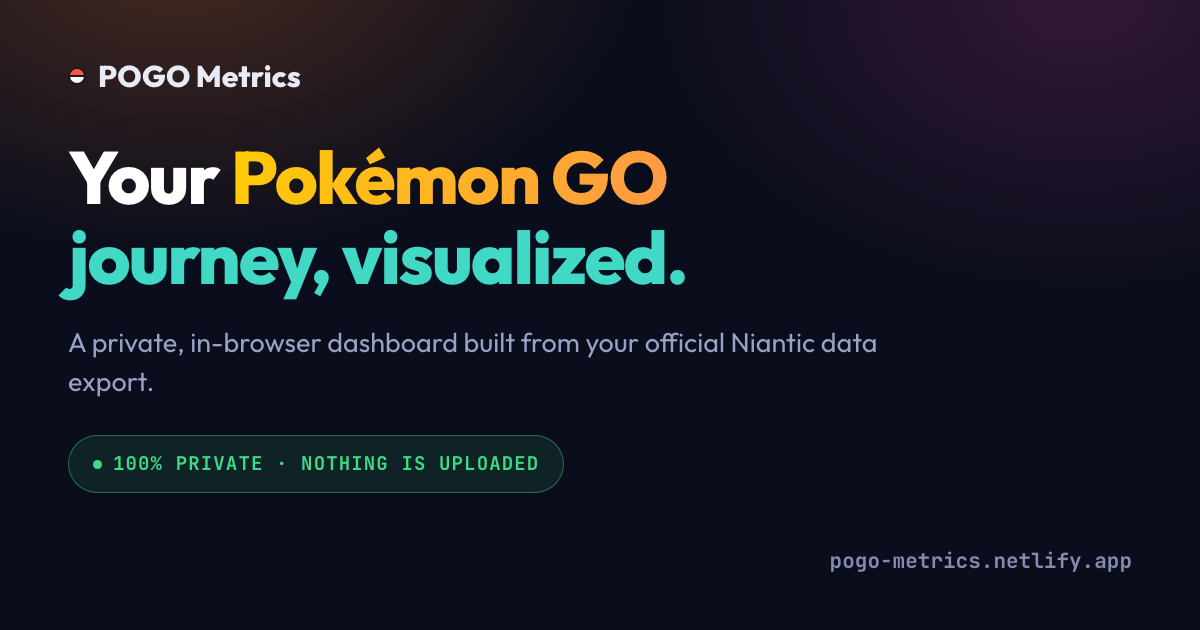
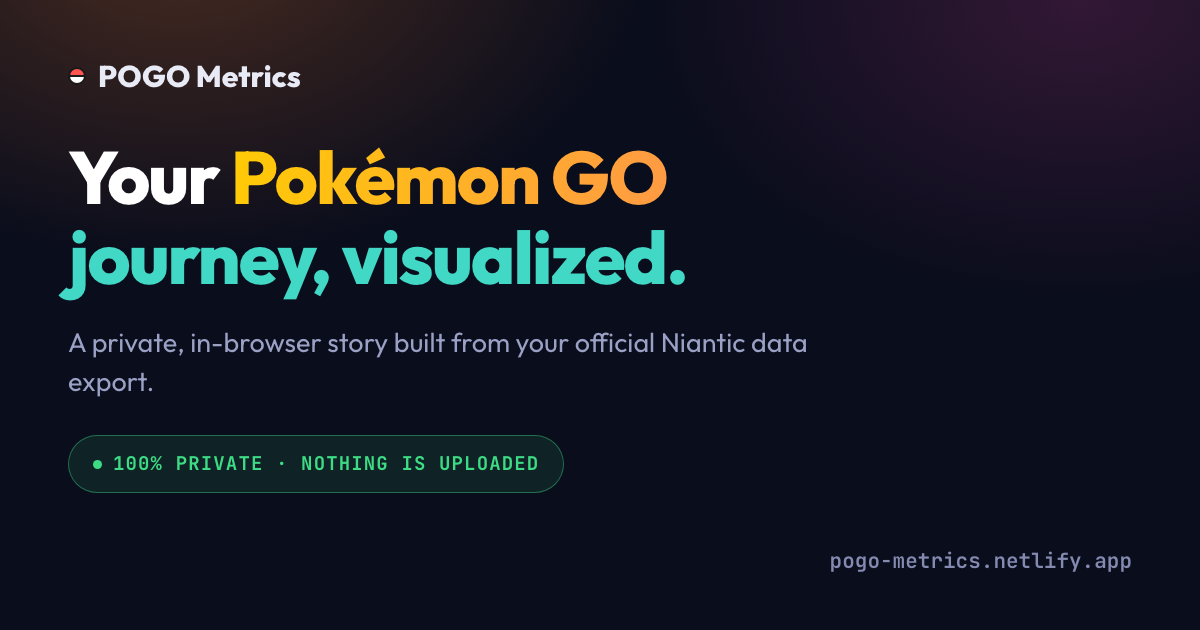
Globe replay, friend rival in the demo, wrapped season, fresh OG cards
- The globe gains "Replay my journey": spots, remote-raid arcs and the
  GPS trail accumulate month by month under a date ticker (first-seen
  months recorded at parse; skipped under reduced motion)
- The live example now ships a fictional rival (GaryDemo) as a
  pogo-metrics-stats JSON, so the You-vs-friend chapter shows on the
  demo — 16 chapters
- Milestone rows offer a one-tap .ics reminder for their projected date;
  every December the report hero nudges "play this year's story"
- OG images re-rendered from the current cards (headless Chrome), and
  the last two "dashboard" copy holdouts renamed
- READMEs document the new features

Changed region(s): [[0.2775, 0.5127, 0.74, 0.573]]

diff --git a/pogo-metrics/js/app.js b/pogo-metrics/js/app.js
@@ -278,6 +278,7 @@ function freshState() {
       stamps: [], forts: new Map(), gyms: new Map(),
       raidTotal: 0, raidRemote: 0, raidMaxKm: 0, raidKmSum: 0, raidWithDist: 0,
       raidArcs: new Map(), raidGymBins: new Map(), remoteRaidsByYear: {},
+      geoFirst: new Map(), arcFirst: new Map(),   // first-seen month per spot/arc — feeds the globe replay
     },
     trail: [], trailCount: 0, trailStride: 1,
     bag: null,
@@ -810,6 +811,7 @@ async function parsePlayerJourney(label, text) {
       hasLoc = true;
       const key = lat.toFixed(3) + "," + lon.toFixed(3);
       e.geo.set(key, (e.geo.get(key) || 0) + 1);
+      if (!e.geoFirst.has(key)) e.geoFirst.set(key, mk);
       let kc = e.geoKind.get(key);
       if (!kc) { kc = {}; e.geoKind.set(key, kc); }
       kc[label] = (kc[label] || 0) + 1;
@@ -842,6 +844,7 @@ async function parsePlayerJourney(label, text) {
           e.remoteRaidsByYear[ts.getUTCFullYear()] = (e.remoteRaidsByYear[ts.getUTCFullYear()] || 0) + 1;
           const ak = `${lat.toFixed(1)},${lon.toFixed(1)},${glat.toFixed(1)},${glon.toFixed(1)}`;
           e.raidArcs.set(ak, (e.raidArcs.get(ak) || 0) + 1);
+          if (!e.arcFirst.has(ak)) e.arcFirst.set(ak, mk);
           const gk = `${glat.toFixed(1)},${glon.toFixed(1)}`;
           e.raidGymBins.set(gk, (e.raidGymBins.get(gk) || 0) + 1);
         }
@@ -1547,6 +1550,21 @@ async function build() {
     wireCountUps(res);
     // The demo page's hero CTA can only work once STATE is populated — enabling
     // it here avoids opening a one-slide story over an empty build.
+    /* December is Wrapped season — surface the year story while it's the moment */
+    const seasonNow = new Date();
+    if (seasonNow.getMonth() === 11) {
+      const y = String(seasonNow.getFullYear());
+      if (Object.keys(STATE.ev.byMonth).some((m) => m.startsWith(y))) {
+        const heroEl = res.querySelector(".res-hero");
+        if (heroEl) {
+          heroEl.insertAdjacentHTML("beforeend",
+            `<div class="season-banner"><span aria-hidden="true">🎁</span> Your ${y}, wrapped —
+             <button class="linkish" id="season-play" type="button">play ${y}'s story</button></div>`);
+          const sp = $("season-play");
+          if (sp) sp.onclick = () => storyMode(y);
+        }
+      }
+    }
     fetchCohortRank();
     const demoCta = $("demo-story-cta");
     if (demoCta) {
@@ -2059,6 +2077,26 @@ function storyMode(year) {
   render(0);
   // pull focus into the dialog so keyboard users are inside the story, not behind it
   try { ov.querySelector(".story-x").focus(); } catch (e) {}
+}
+
+/* A tiny on-device .ics download — no calendar service, no request. Same
+ * pattern as the landing page's export reminder. */
+function downloadICS(summary, date, filename) {
+  const ymd = date.toISOString().slice(0, 10).replace(/-/g, "");
+  const stamp = new Date().toISOString().replace(/[-:]/g, "").slice(0, 15) + "Z";
+  const ics = [
+    "BEGIN:VCALENDAR", "VERSION:2.0", "PRODID:-//POGO Metrics//EN",
+    "BEGIN:VEVENT", "UID:" + stamp + "@pogo-metrics",
+    "DTSTAMP:" + stamp, "DTSTART;VALUE=DATE:" + ymd,
+    "SUMMARY:" + summary,
+    "DESCRIPTION:Projected from your recent pace by POGO Metrics. Re-export from Niantic and rebuild to see how close you are: https://pogo-metrics.netlify.app/",
+    "URL:https://pogo-metrics.netlify.app/", "END:VEVENT", "END:VCALENDAR",
+  ].join("\r\n");
+  const url = URL.createObjectURL(new Blob([ics], { type: "text/calendar" }));
+  const a = document.createElement("a");
+  a.href = url; a.download = filename;
+  document.body.appendChild(a); a.click(); a.remove();
+  setTimeout(() => URL.revokeObjectURL(url), 4000);
 }
 
 /* ── shared canvas delivery: native share sheet on phones, download anchor
@@ -2754,10 +2792,18 @@ function renderRecords() {
           <div class="gname">${esc(m.label)}</div>
           <div class="gen-bar-track"><div class="gen-bar-fill" style="width:${Math.min(100, m.current / m.target * 100).toFixed(1)}%"></div></div>
           <div class="gval">${fmt(m.toGo)} to ${fmt(m.target)}${m.eta
-            ? ` · ~${m.eta.toLocaleDateString(undefined, { month: "short", year: "numeric" })}`
+            ? ` · ~${m.eta.toLocaleDateString(undefined, { month: "short", year: "numeric" })}
+               <button class="linkish ms-ics" type="button" data-label="${esc(m.label)}" data-target="${m.target}" data-eta="${m.eta.toISOString()}"
+                 aria-label="Calendar reminder for ${esc(m.label)} reaching ${fmt(m.target)}"><span aria-hidden="true">📅</span></button>`
             : " · on pause"}</div>
         </div>`).join("")}</div>`;
   }
+
+  later(() => {
+    document.querySelectorAll(".ms-ics").forEach((b) => b.addEventListener("click", () =>
+      downloadICS(`Pokémon GO: ~${b.dataset.label} hits ${fmt(+b.dataset.target)}`, new Date(b.dataset.eta),
+        "pogo-metrics-milestone.ics")));
+  });
 
   /* first reveal of the personal-best grid earns the celebration beat */
   later(() => {
@@ -3927,7 +3973,7 @@ function renderGlobe() {
     const [lat, lng] = key.split(",").map(Number);
     const kc = e.geoKind.get(key) || {};
     const kind = (Object.entries(kc).sort((a, b) => b[1] - a[1])[0] || ["Encounters"])[0];
-    return { lat, lng, count, kind };
+    return { lat, lng, count, kind, m: e.geoFirst.get(key) };
   });
   if (!points.length && !STATE.trail.length) return renderFlatMap();
   const maxCount = Math.max(1, ...points.map((p) => p.count));
@@ -3938,7 +3984,7 @@ function renderGlobe() {
     // PAST the real farthest raid — which the same panel prints a few hundred
     // pixels away, from the unrounded figure. One distance, one number.
     const km = haversine(slat, slng, elat, elng);
-    return { slat, slng, elat, elng, count, km: e.raidMaxKm ? Math.min(km, e.raidMaxKm) : km };
+    return { slat, slng, elat, elng, count, km: e.raidMaxKm ? Math.min(km, e.raidMaxKm) : km, m: e.arcFirst.get(key) };
   });
   let home = null, hc = -1;
   for (const [key, c] of e.geo) { if (c > hc) { hc = c; const [la, lo] = key.split(",").map(Number); home = { lat: la, lng: lo }; } }
@@ -3971,7 +4017,8 @@ function renderGlobe() {
         ${gToggle(P + "ly-borders", "#5a6db8", "Country lines", true)}
         ${gToggle(P + "ly-labels", "#dfe6ff", "Country names", true)}
         ${gToggle(P + "ly-rotate", C.blue, "Auto-rotate", !REDUCED_MOTION)}
-        <button id="${P}shot" class="gh-btn" type="button">📷 Save image</button>
+        <button id="${P}shot" class="gh-btn" type="button"><span aria-hidden="true">📷</span> Save image</button>
+        ${REDUCED_MOTION ? "" : `<button id="${P}replay" class="gh-btn" type="button"><span aria-hidden="true">▶</span> Replay my journey</button>`}
       </details>
       <div id="${P}legend" class="globe-hud globe-legend"></div>
       <div id="${P}country" class="globe-hud globe-country" hidden></div>
@@ -4257,6 +4304,47 @@ function initGlobe({ P, points, maxCount, arcs, home, paths }) {
     $$("arc-lbl").textContent = +arcDist.value >= 100 ? "all distances" : "≤ " + fmt(Math.round(arcMax)) + " km";
     updateArcs();
   };
+
+  /* ── chronological replay: months accumulate onto the globe under a date
+     ticker — the "six years in thirty seconds" moment. Data was tagged with
+     first-seen months at parse; the trail is already day-keyed. Restores the
+     layer toggles' truth when done. Not offered under reduced motion. ── */
+  const rp = $$("replay");
+  if (rp) {
+    const months = [...new Set([
+      ...points.map((pt) => pt.m), ...arcs.map((a) => a.m),
+      ...paths.map((pa) => pa.date.slice(0, 7)),
+    ].filter(Boolean))].sort();
+    if (months.length < 2) rp.style.display = "none";
+    else rp.onclick = () => {
+      if (rp.disabled) return;
+      rp.disabled = true;
+      const stage = el.closest(".globe-stage");
+      const tick = document.createElement("div");
+      tick.className = "globe-ticker";
+      stage.appendChild(tick);
+      const dwell = Math.max(220, Math.min(650, 26000 / months.length));
+      let i = 0;
+      const step = () => {
+        if (GLOBE !== world || !el.isConnected) { tick.remove(); return; }   // torn down mid-replay
+        const cur = months[i];
+        tick.textContent = fmtMonth(cur);
+        world.pointsData($$("ly-points").checked ? points.filter((pt) => !pt.m || pt.m <= cur) : []);
+        world.arcsData($$("ly-arcs").checked ? arcs.filter((a) => (!a.m || a.m <= cur) && a.km <= arcMax + 0.5) : []);
+        world.pathsData($$("ly-trail").checked ? paths.filter((pa) => pa.date.slice(0, 7) <= cur) : []);
+        i++;
+        if (i < months.length) setTimeout(step, dwell);
+        else setTimeout(() => {
+          tick.remove();
+          world.pointsData($$("ly-points").checked ? points : []);
+          updateArcs();
+          world.pathsData($$("ly-trail").checked ? paths : []);
+          rp.disabled = false;
+        }, 1100);
+      };
+      step();
+    };
+  }
 
   const onResize = () => { if (GLOBE === world && el.isConnected) world.width(el.clientWidth).height(el.clientHeight || 560); };
   window.addEventListener("resize", onResize);

diff --git a/pogo-metrics/css/style.css b/pogo-metrics/css/style.css
@@ -568,6 +568,12 @@ h2:hover > .permalink, h3:hover > .permalink,
 }
 #results .res-hero p { color: var(--ink-dim); }
 .res-toolbar { display: flex; justify-content: center; gap: 12px; flex-wrap: wrap; margin: 18px 0 6px; }
+/* December-only: the wrapped-season nudge under the report hero */
+.season-banner {
+  display: inline-flex; align-items: center; gap: 8px; margin-top: 14px;
+  background: rgba(255, 203, 5, .10); border: 1px solid rgba(255, 203, 5, .35);
+  color: var(--ink); padding: 8px 16px; border-radius: 999px; font-size: .90625rem; font-weight: 600;
+}
 
 /* callout pills */
 .callout-row { display: flex; flex-wrap: wrap; gap: 10px; margin-top: 14px; }
@@ -677,6 +683,14 @@ footer .deck-line .sep { margin: 0 9px; opacity: .55; }
   font-family: var(--sans); cursor: pointer; transition: background .12s; }
 .gh-btn:hover { background: rgba(65,216,198,.26); }
 .gh-btn:disabled { opacity: .6; cursor: default; }
+/* the replay's month ticker, centered clear of both top HUDs */
+.globe-ticker {
+  position: absolute; left: 50%; top: 14px; transform: translateX(-50%);
+  z-index: 7; pointer-events: none;
+  font-family: var(--mono); font-weight: 700; font-size: 1.375rem; color: #fff;
+  background: rgba(10, 13, 28, .78); border: 1px solid var(--line);
+  border-radius: 999px; padding: 6px 18px; backdrop-filter: blur(6px);
+}
 .globe-legend { bottom: 12px; left: 12px; max-width: 280px; }
 .globe-legend .gh-li { display: inline-flex; align-items: center; gap: 0.3125rem; margin: 0.125rem 0.5625rem 0.125rem 0; font-size: 0.71875rem; color: var(--ink-dim); }
 .globe-legend .gh-d { width: 8px; height: 8px; border-radius: 2px; flex: none; }

diff --git a/pogo-metrics/og-card-demo.html b/pogo-metrics/og-card-demo.html
@@ -47,7 +47,7 @@
   <div class="wordmark"><span class="pokeball-dot"></span> POGO Metrics</div>
   <div class="eyebrow">Live example</div>
   <h1><span class="t">See a real trainer's journey.</span></h1>
-  <p>A full dashboard built from an anonymized sample export — charts, a 3D globe, and a tappable Wrapped-style story.</p>
+  <p>A full report built from an anonymized sample export — charts, a 3D globe, and a tappable Wrapped-style story.</p>
   <div class="tiles">
     <div class="tile"><div class="v">13,905</div><div class="l">logged actions</div></div>
     <div class="tile"><div class="v">831</div><div class="l">days played</div></div>

diff --git a/pogo-metrics/og-card.html b/pogo-metrics/og-card.html
@@ -38,7 +38,7 @@
 <body>
   <div class="wordmark"><span class="pokeball-dot"></span> POGO Metrics</div>
   <h1><span class="w">Your</span> <span class="y">Pokémon&nbsp;GO</span><br><span class="t">journey, visualized.</span></h1>
-  <p>A private, in-browser dashboard built from your official Niantic data export.</p>
+  <p>A private, in-browser story built from your official Niantic data export.</p>
   <div class="chip"><span class="dot"></span>100% PRIVATE · NOTHING IS UPLOADED</div>
   <div class="url">pogo-metrics.netlify.app</div>
 </body>

diff --git a/README.md b/README.md
@@ -50,28 +50,40 @@ Each file you drop in lights up its own chapter. Upload one file or the whole ex
 | **Spending** — coin flow, top items, which storefront, free boxes and support gifts | `InAppPurchases.tsv` |
 | **Fitness** — Adventure Sync steps and real-world equivalents | `FitnessData.tsv` |
 | **Photo album** — every GO Snapshot you've taken, by month | `ImageData.txt` |
-| **Record book** — your personal bests: biggest day, best month, longest streak, farthest raid | `Player_Journey/*.csv` |
+| **Record book** — your personal bests, plus **next-milestone countdowns** projected from your recent pace (with one-tap calendar reminders) | `Player_Journey/*.csv` |
+| **You vs. a friend** — swap "My numbers" JSON files with a friend over chat and each of you gets a side-by-side chapter: action by action, and who peaked when | a `pogo-metrics-stats*.json` exported by this site |
 | **Behind the screen** — sessions, devices, cities, countries, support tickets | app sessions, installs, support |
 | **Live events and Wayfarer contributions** | tickets, `wayfarer_player_data.json` |
 
 Nothing is required. Upload only `FriendList.tsv` and you'll get exactly the social chapter and
 nothing else.
 
-### Four things to do with the result
+### Five things to do with the result
 
-Once a dashboard is built, the toolbar above it offers:
+Once your story is built (it builds itself moments after a drop), the toolbar above it offers:
 
-- **▶ Play my story** — a full-screen, tappable recap of your whole journey, one number at a
-  time. Tap right for next, left to go back, Esc to close. It's also the demo page's main CTA.
+- **▶ Play my story** — a full-screen recap in the Wrapped grammar: slides auto-advance with a
+  filling progress bar, hold to pause, swipe (or tap the edges, or use arrow keys) to move, Esc
+  or the Android Back button to close. It ends on your computed **trainer type** ("The Raid
+  Boss", "The Night Owl"…) and — if `Gameplay.txt` was included — where your level lands among
+  the Trainer Model's real cohort. Every stat slide has a **Share this** button that renders
+  that one number as a phone-story-sized (1080×1920) image straight into the share sheet, and
+  each card in the Year-over-year chapter has a **▶ Play <year>'s story** of its own.
 - **⬇ Journey card** — your entire journey as one shareable PNG: headline totals, a month-by-month
-  chart with a legend, and auto-awarded badges. The Year-over-year chapter offers the same thing
-  per year.
+  chart with a legend, and auto-awarded badges (your trainer type leads them). The Year-over-year
+  chapter offers the same thing per year.
+- **🖼 Poster** — a print-ready 2480×3508 PNG for the wall: your name, lifetime numbers, and one
+  calendar heat-strip for every year of the journey. (The report also carries print styles now,
+  so plain Cmd+P works too.)
 - **🧾 My numbers** — a JSON dump of every figure the app computed, for anyone who'd rather have
   the data than the pictures. **Location data is deliberately excluded** — no GPS trail, no stop or
   activity coordinates, no cities, no countries. Those stay in the browser. Everything else,
   including your trainer profile, is in the file, so treat it like you would any personal export.
 - **＋ Add more files** — drop in the rest of your export later and the new chapters appear
   alongside the ones you already have.
+
+On the globe, **▶ Replay my journey** plays your whole history chronologically — spots,
+remote-raid arcs and the GPS trail accumulate month by month under a date ticker.
 
 ## Privacy, concretely
 

diff --git a/pogo-metrics/README.md b/pogo-metrics/README.md
@@ -14,9 +14,13 @@ friends-list cohort behind the Trainer Model page.)
   **dataset catalog** (data from `js/catalog.js`, rendered by `js/catalog-ui.js`) that teaches
   what every file in a Niantic export contains, how sensitive it is, and what story this site
   can build from it.
-- **`metrics.html`** — The app. Drag-and-drop (files *or* a whole folder), client-side parse,
-  and a per-file story. Each recognised file lights up its own chapter, so uploading only
-  `FriendList.tsv` yields just the social chapter, while a full export yields everything.
+- **`metrics.html`** — The app. Drag-and-drop (files *or* a whole folder — anywhere on the
+  page), client-side parse, and a per-file story that now **builds itself** moments after a
+  drop. Each recognised file lights up its own chapter, so uploading only `FriendList.tsv`
+  yields just the social chapter, while a full export yields everything — ending in a
+  Wrapped-style auto-advancing story with per-slide share cards, a computed trainer type,
+  per-year replays, a wall poster, and a **You vs. a friend** chapter when someone sends you
+  their "My numbers" JSON from this site.
 - **`demo.html`** — The **Live Example**: a permanent reference build that auto-runs the
   parser over the bundled anonymized sample export, so visitors can preview every chart
   before requesting their own data. (`metrics.html?demo=1` still works as a shortcut.)
